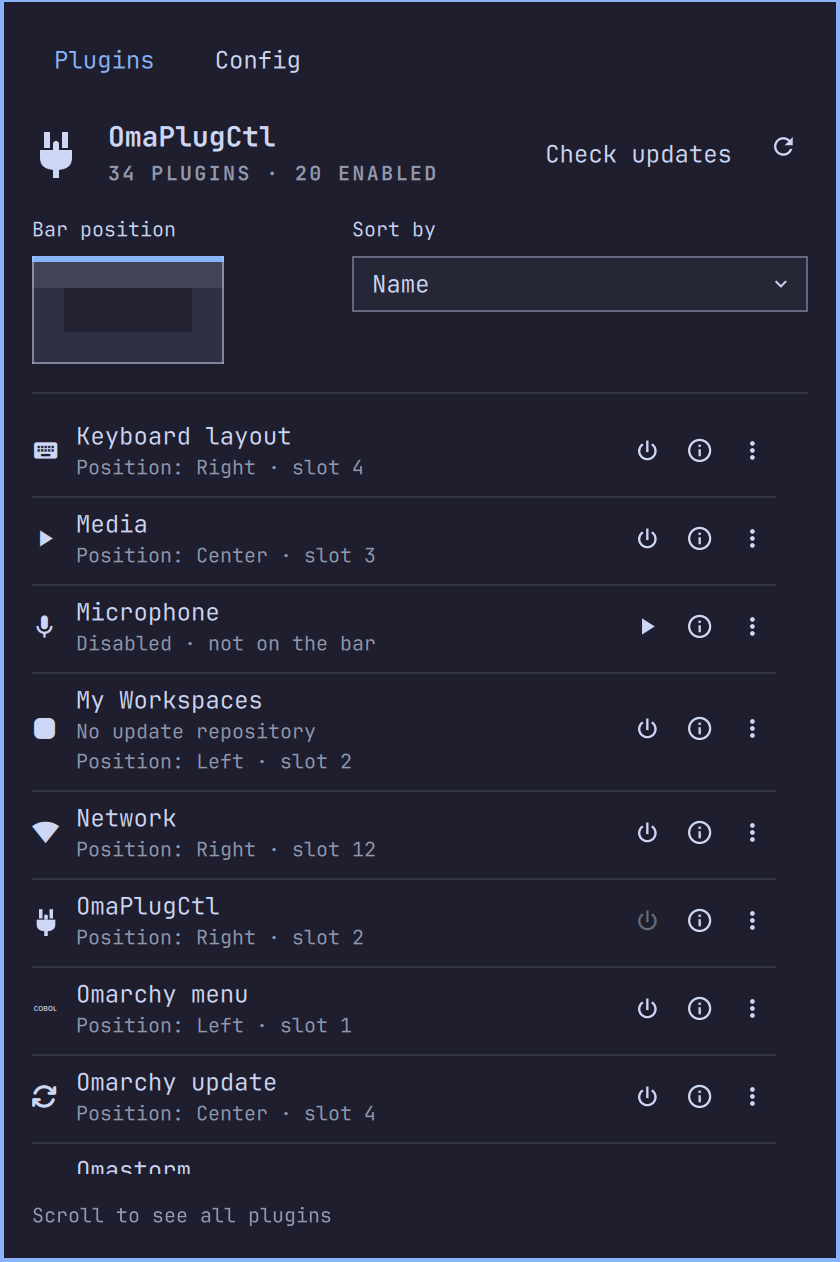
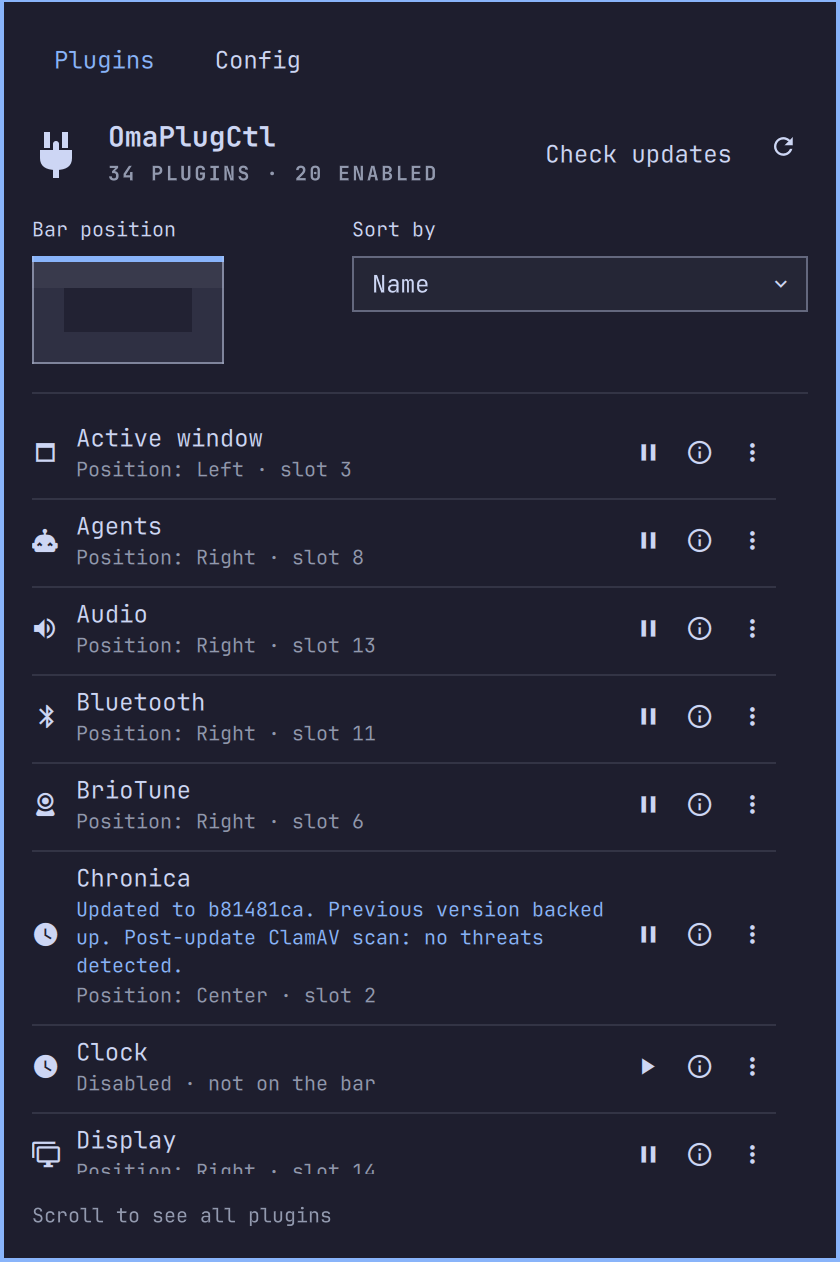
DIL-2987: Pair Pause with Play for plugin enablement
Why:
Use a coherent pair of action icons: Pause disables an enabled plugin, while Play enables a disabled plugin. Keep explicit hover labels and self protection.

Evidence:
73 Python tests pass; Qt 6 qmllint passes; three QtTest pointer checks pass with zero failures for Play/Pause actions, storage-confirmed state, busy controls and protected self control. Restarted shell and inspected actual Pause glyphs in the live menu; README table and screenshot updated; git diff --check passes.

composition_ref: /home/moo/dil/memory/_shared/compositions/drafts/20261018_205306_194748_operator_stdout.md

— Z & Codex
DIL session: 2877f1d2-3601-4836-8478-fac2498baceb
2026-10-18 20:53 CDT

diff --git a/PluginRow.qml b/PluginRow.qml
@@ -152,7 +152,7 @@ Item {
         }
         Ui.PanelActionButton {
           objectName: "pluginEnableButton"
-          iconText: root.plugin.enabled ? "" : ""
+          iconText: root.plugin.enabled ? "" : ""
           tooltipText: root.plugin.isSelf ? root.host.text("updates.controllerProtected") : (root.plugin.enabled ? "Disable " : "Enable ") + root.plugin.name
           fontFamily: root.host.themeFont
           foreground: root.ink

diff --git a/README.md b/README.md
@@ -25,7 +25,7 @@ Each row shows a plugin’s name, bar position and update status. Hover the row 
 
 | Control | Action |
 | --- | --- |
-| Power or play | Disable or enable the plugin. |
+| Pause or play | Disable or enable the plugin. |
 | Update arrows | Update this plugin when a source update is available. Hover for the latest change date and up to three commit subjects. |
 | Information | Open the plugin’s source page. |
 | Three dots | Move an instance to another bar section, or uninstall an installed third-party plugin. |
